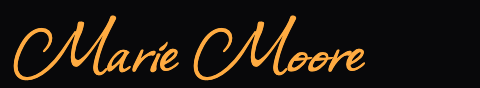
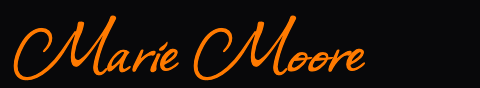
feat(web): render the signature name in the accent orange

Changed region(s): [[0.4062, 0.1818, 0.7812, 0.9091], [0.0312, 0.1818, 0.375, 0.9091], [0.3438, 0.4773, 0.375, 0.5227]]

diff --git a/app/web/scripts/signature/build-signature.ts b/app/web/scripts/signature/build-signature.ts
@@ -133,7 +133,7 @@ async function main(): Promise<void> {
   mkdirSync(OUT_HTML, { recursive: true })
   mkdirSync(OUT_ASSETS, { recursive: true })
 
-  await renderNames(people, font, requireToken(tokens, 'amber'), base)
+  await renderNames(people, font, requireToken(tokens, 'accent'), base)
   await Promise.all(people.map((person) => renderPhoto(person, base)))
   await renderIcon('linkedin', requireToken(tokens, 'muted'), base)
   await renderIcon('facebook', requireToken(tokens, 'muted'), base)
